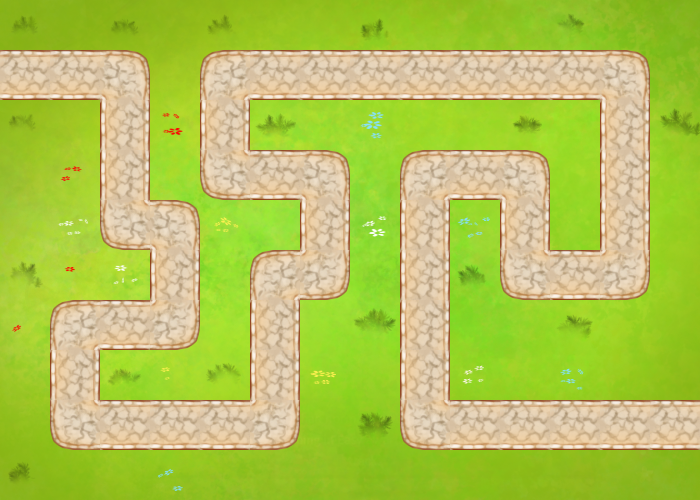
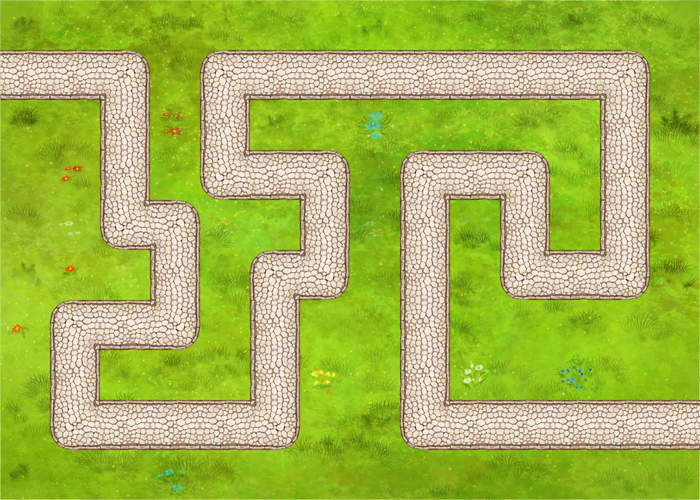
Nowe grafiki: tlo, przeciwnik, wiezyczka i podstawa pod wiezyczke

diff --git a/public_html/js/app/objects/WorldView.js b/public_html/js/app/objects/WorldView.js
@@ -46,6 +46,30 @@ app.objects.WorldView = function WorldView(canvas, worldModel) {
     this._backgroundImage = new Image();
     this._backgroundImage.src = "assets/images/bg.png";
     
+    /**
+     * @type {Image}
+     */
+    this._enemyImage = new Image();
+    this._enemyImage.src = "assets/images/enemy1.png";
+    
+    /**
+     * @type {Image}
+     */
+    this._towerHolderImage = new Image();
+    this._towerHolderImage.src = "assets/images/holder1.png";
+    
+    /**
+     * @type {Image}
+     */
+    this._towerImage = new Image();
+    this._towerImage.src = "assets/images/tower1.png";
+    
+    /**
+     * @type {Image}
+     */
+    this._bulletImage = new Image();
+    this._bulletImage.src = "assets/images/bullet1.png";
+    
 };
 
 /**
@@ -105,14 +129,14 @@ app.objects.WorldView.prototype._drawEnemies = function _drawEnemies(enemyList){
         //hp bar
         //fillRect
         this.canvasContext.fillStyle = '#00FF00';
-        this.canvasContext.fillRect(enemy.getX()-hp/2,enemy.getY()-10,currentHp,5);
+        this.canvasContext.fillRect(enemy.getX()-hp/2,enemy.getY()-20,currentHp,5);
         
         //drawRect
         this.canvasContext.fillStyle = '#000000';
-        this.canvasContext.rect(enemy.getX()-hp/2,enemy.getY()-10,hp,5);
+        this.canvasContext.rect(enemy.getX()-hp/2,enemy.getY()-20,hp,5);
         
         //enemy
-        this.canvasContext.fillText("Enemy", enemy.getX(), enemy.getY());
+        this.canvasContext.drawImage(this._enemyImage, enemy.getX()-25, enemy.getY()-25, 50, 50);
     }
     
     this.canvasContext.lineWidth = 1;
@@ -133,7 +157,9 @@ app.objects.WorldView.prototype._drawTowers = function _drawTowers(towerList){
     max = towerList.length();
     for (i=0; i<max; i++){
         tower = towerList.getTower(i);
-        this.canvasContext.fillText("Tower", tower.getX(), tower.getY());
+        
+        this.canvasContext.drawImage(this._towerHolderImage, tower.getX()-25, tower.getY()-25, 50, 50);
+        this.canvasContext.drawImage(this._towerImage, tower.getX()-25, tower.getY()-25, 50, 50);
     }
 };
 
@@ -150,7 +176,12 @@ app.objects.WorldView.prototype._drawBullets = function _drawBullets(bulletList)
     max = bulletList.length();
     for (i=0; i<max; i++){
         bullet = bulletList.getBullet(i);
-        this.canvasContext.fillText("o", bullet.getX(), bullet.getY());
+        
+        //rotate bullet
+        
+        
+        //bullet
+        this.canvasContext.drawImage(this._bulletImage, bullet.getX()-25, bullet.getY()-25, 50, 50);
     }
 };
 
@@ -167,7 +198,7 @@ app.objects.WorldView.prototype._drawCheckpoints = function _drawCheckpoints(che
     max = checkpointList.length();
     for (i=0; i<max; i++){
         checkpoint = checkpointList.getCheckpoint(i);
-        this.canvasContext.fillText("CHECKPOINT", checkpoint.getX(), checkpoint.getY());
+        //this.canvasContext.fillText("CHECKPOINT", checkpoint.getX(), checkpoint.getY());
     }
 };
 
@@ -191,19 +222,19 @@ app.objects.WorldView.prototype._drawMap = function _drawMap(map){
             
             mapField = map.getField(x, y);
             
-            this.canvasContext.rect(x*map.getFieldWidth(),y*map.getFieldHeight(),map.getFieldWidth(),map.getFieldHeight());
+            //this.canvasContext.rect(x*map.getFieldWidth(),y*map.getFieldHeight(),map.getFieldWidth(),map.getFieldHeight());
             
             if(mapField.getAllowBuild()){
                 this.canvasContext.fillStyle = '#99FF99';
-                this.canvasContext.fillText("Y", x*map.getFieldWidth()+map.getFieldWidth()*0.5, y*map.getFieldHeight()+map.getFieldHeight()*0.5);
+                //this.canvasContext.fillText("Y", x*map.getFieldWidth()+map.getFieldWidth()*0.5, y*map.getFieldHeight()+map.getFieldHeight()*0.5);
             } else {
                 this.canvasContext.fillStyle = '#FF9999';
-                this.canvasContext.fillText("N", x*map.getFieldWidth()+map.getFieldWidth()*0.5, y*map.getFieldHeight()+map.getFieldHeight()*0.5);
+                //this.canvasContext.fillText("N", x*map.getFieldWidth()+map.getFieldWidth()*0.5, y*map.getFieldHeight()+map.getFieldHeight()*0.5);
             }
             
             if (mapField === map.getSelectedField()){
                 this.canvasContext.fillStyle = '#FFFFFF';
-                this.canvasContext.fillText("SELECT", x*map.getFieldWidth()+map.getFieldWidth()*0.5, y*map.getFieldHeight()+map.getFieldHeight()*0.5);
+                //this.canvasContext.fillText("SELECT", x*map.getFieldWidth()+map.getFieldWidth()*0.5, y*map.getFieldHeight()+map.getFieldHeight()*0.5);
             }
             
         }
